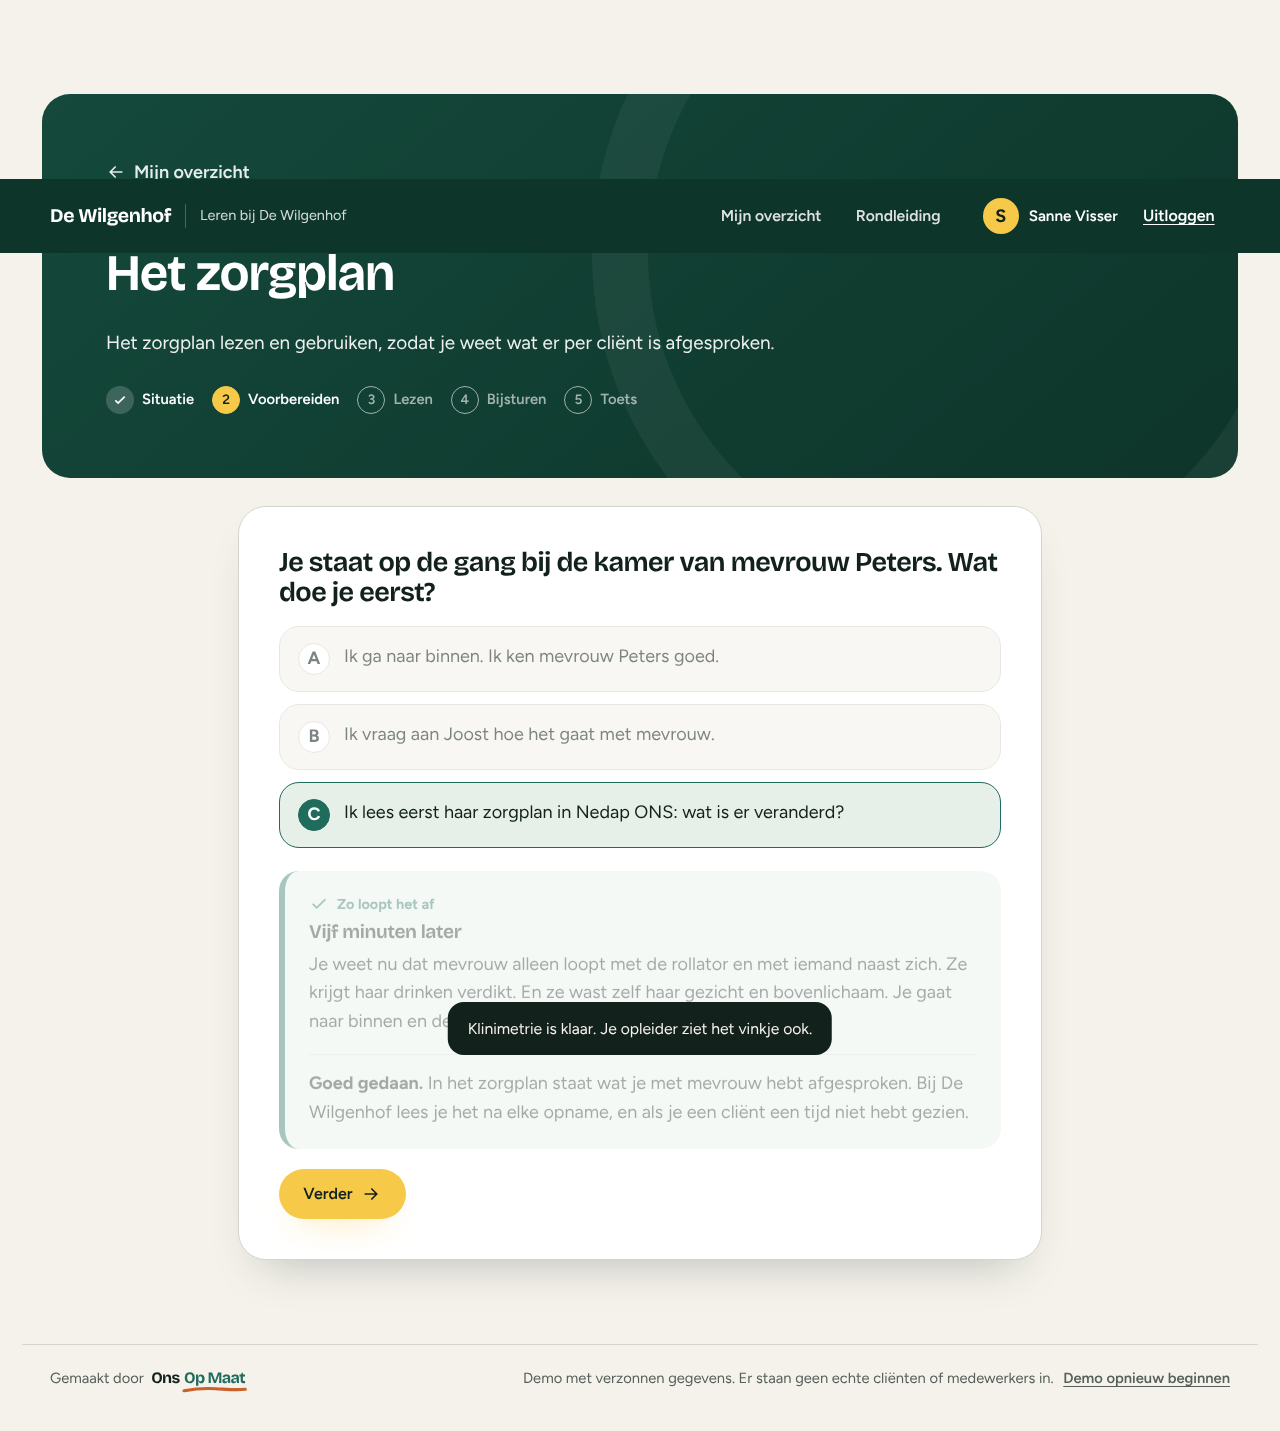
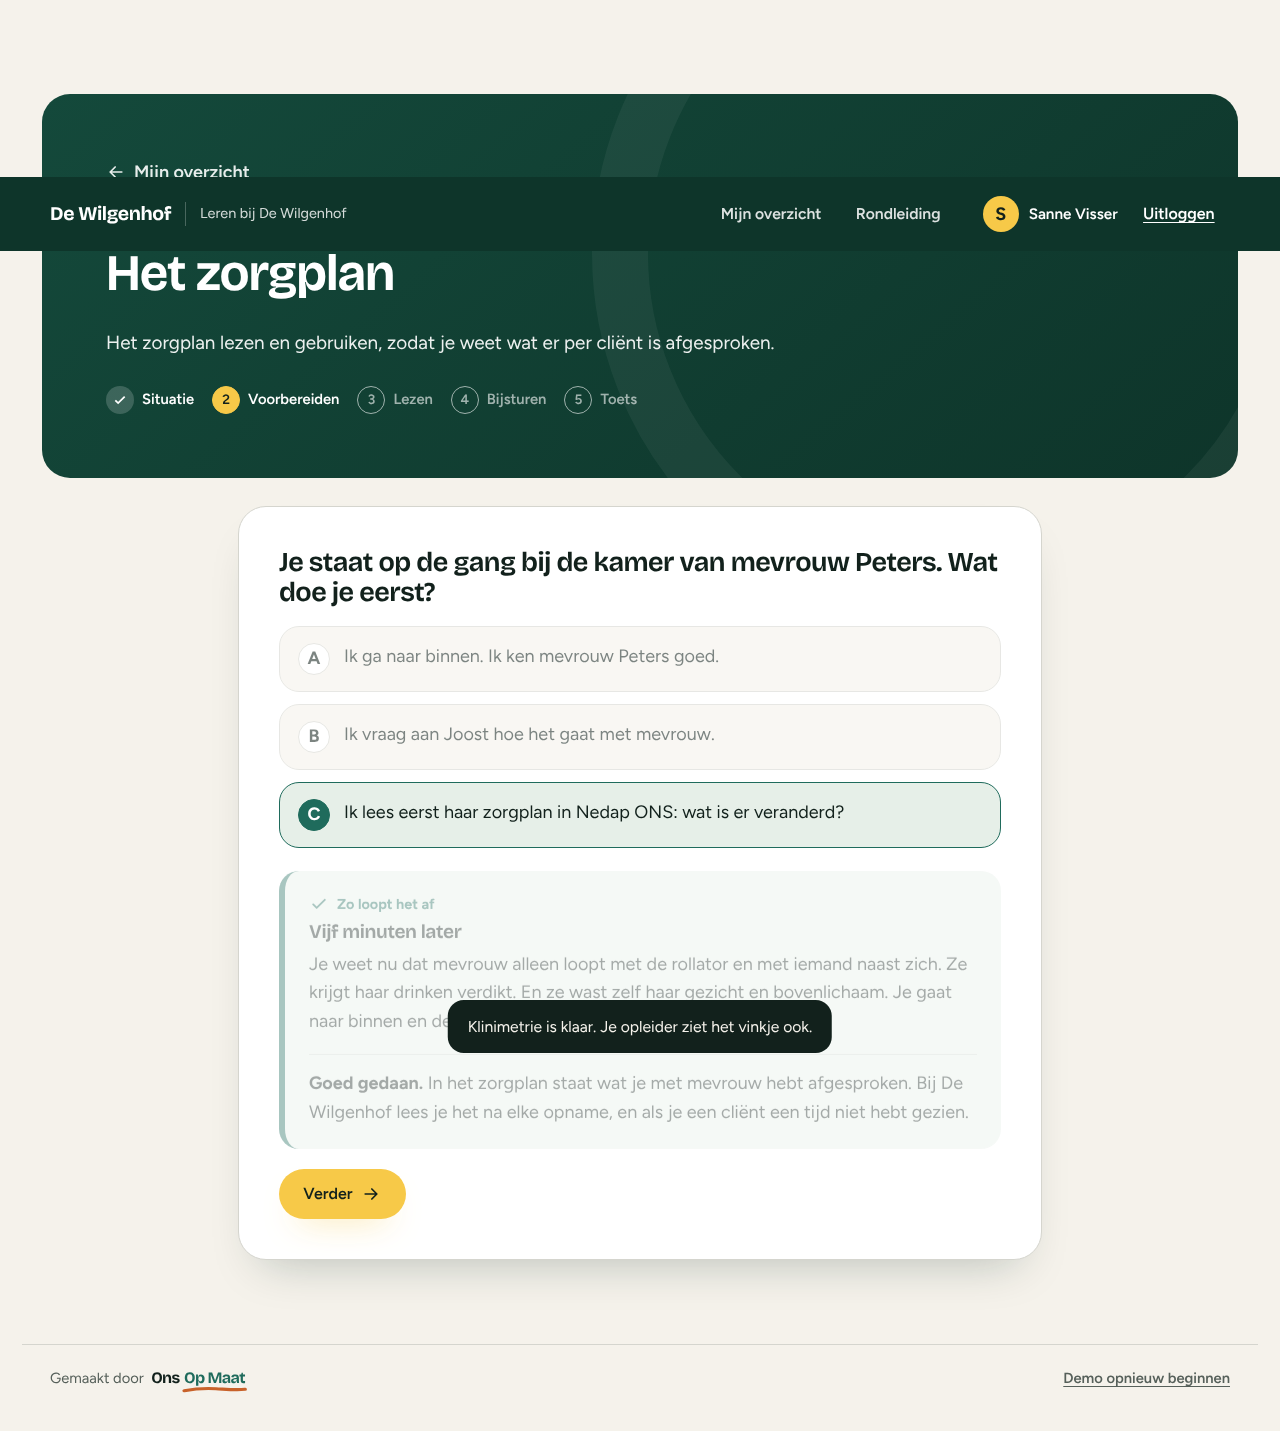
Disclaimers uit beeld gehaald
Geen regels meer over verzonnen gegevens, fictieve cliënten of een
nagebouwd scherm, op verzoek van Nick. Gemaakt door Ons Op Maat blijft.

Claude-Session: https://claude.ai/code/session_01NHBNdB6ZupUW6usMoxdCbz

diff --git a/js/app.js b/js/app.js
@@ -136,8 +136,7 @@ function voet() {
     <footer class="voet">
       <div class="voet__in">
         <p class="voet__gemaakt">Gemaakt door ${OOM_MERK}</p>
-        <p class="voet__demo">Demo met verzonnen gegevens. Er staan geen echte cliënten of medewerkers in.
-          <button type="button" class="linkknop" data-actie="opnieuw">Demo opnieuw beginnen</button></p>
+        <p class="voet__demo"><button type="button" class="linkknop" data-actie="opnieuw">Demo opnieuw beginnen</button></p>
       </div>
     </footer>`;
 }
@@ -393,7 +392,6 @@ function viewCasus(m) {
         <p class="situatie__tijd">${esc(c.intro.tijd)}</p>
         <h2>${esc(c.intro.kop)}</h2>
         ${c.intro.tekst.map((t) => `<p>${esc(t)}</p>`).join('')}
-        ${c.intro.noot ? `<p class="opmerking">${esc(c.intro.noot)}</p>` : ''}
         <button type="button" class="btn btn--actie" data-actie="casus-start">${esc(c.startKnop || 'Begin')} ${ICOON.pijl}</button>
       </article>`;
   } else if (['toets', 'uitslag', 'afronden'].includes(casus.stap)) {
@@ -451,8 +449,8 @@ function viewKoppel(stap) {
     <article class="werkpaneel">
       <h2>${esc(stap.vraag)}</h2>
       ${stap.uitleg ? `<p>${esc(stap.uitleg)}</p>` : ''}
-      <div class="ecd" aria-label="Nagebouwd scherm in eigen vormgeving">
-        <div class="ecd__balk"><span>${esc(stap.scherm || 'Nedap ONS')}</span><span class="ecd__klein">nagebouwd scherm, fictieve cliënt</span></div>
+      <div class="ecd">
+        <div class="ecd__balk"><span>${esc(stap.scherm || 'Nedap ONS')}</span></div>
         <div class="ecd__body">
           ${stap.regels.map((r, i) => `
             <div class="ecd__rij">
@@ -620,7 +618,7 @@ function viewOpleider() {
       <div class="paneel__in">
         <p class="bovenregel">Dashboard opleider</p>
         <h1>Inwerken bij ${esc(orgNaam())}</h1>
-        <p class="lead">Zo ver zijn je nieuwe collega's met hun modules. Alle namen en cijfers zijn verzonnen, behalve die van Sanne: die volgt wat je in de demo doet.</p>
+        <p class="lead">Zo ver zijn je nieuwe collega's met hun modules.</p>
         <div class="tegels">
           ${tegel(alle.length, 'nieuwe medewerkers')}
           ${tegel(alle.filter((r) => r.status === 'klaar').length, 'klaar met inwerken')}
@@ -643,7 +641,7 @@ function viewOpleider() {
             <tbody>
               ${rijen.map((r) => `
                 <tr${r.live ? ' class="is-live"' : ''}>
-                  <th scope="row">${esc(r.naam)}${r.live ? ' <span class="live">jij in de demo</span>' : ''}</th>
+                  <th scope="row">${esc(r.naam)}${r.live ? ' <span class="live">jij</span>' : ''}</th>
                   <td>${esc(PROFIELEN[r.profiel].naam)}</td>
                   <td>${esc(r.afdeling)}</td>
                   <td>${new Date(r.start).toLocaleDateString('nl-NL', { day: 'numeric', month: 'short' })}</td>
@@ -720,7 +718,7 @@ function viewBeheerModules() {
                   <td>${m.varianten || '<span class="klein">geen</span>'}</td>
                   <td>${m.toets ? ICOON.vink + '<span class="sr">ja</span>' : '<span class="klein">nee</span>'}</td>
                   <td><span class="laag">Generiek</span> <span class="laag laag--klant">De Wilgenhof</span></td>
-                  <td>${CASUSSEN[m.id] ? '<span class="status status--klaar">Uitgewerkt in demo</span>' : '<span class="status">Opzet</span>'}</td>
+                  <td>${CASUSSEN[m.id] ? '<span class="status status--klaar">Uitgewerkt</span>' : '<span class="status">Opzet</span>'}</td>
                 </tr>`).join('')}
             </tbody>
           </table>
@@ -750,7 +748,7 @@ function viewBeheerKlanten() {
           <dl class="feiten">
             <div><dt>ECD</dt><dd>${ORGANISATIE.ecd}</dd></div>
             <div><dt>Profielen</dt><dd>${Object.values(PROFIELEN).map((p) => esc(p.naam)).join(', ')}</dd></div>
-            <div><dt>Medewerkers in de demo</dt><dd>${aantal}</dd></div>
+            <div><dt>Medewerkers</dt><dd>${aantal}</dd></div>
             <div><dt>Inloggen</dt><dd>eigen inlog of SSO via het portaal van de klant</dd></div>
           </dl>
           <div class="stalen" aria-label="Huisstijlkleuren">${['paneel', 'merk', 'actie', 'zacht'].map((k) => `<span style="background:${kleuren[k]}" title="${LABELS[k].naam} ${kleuren[k]}"></span>`).join('')}</div>

diff --git a/index.html b/index.html
@@ -5,13 +5,13 @@
   <meta name="viewport" content="width=device-width, initial-scale=1">
   <meta name="robots" content="noindex, nofollow">
   <meta name="theme-color" content="#14493B">
-  <meta name="description" content="Demo van de leeromgeving van Ons Op Maat, met verzonnen gegevens.">
+  <meta name="description" content="Leren bij De Wilgenhof, de leeromgeving van Ons Op Maat.">
   <title>Leren bij De Wilgenhof</title>
   <link rel="icon" href="/assets/favicon.svg" type="image/svg+xml">
   <link rel="preload" href="/assets/figtree-latin.woff2" as="font" type="font/woff2" crossorigin>
   <link rel="preload" href="/assets/bricolage-latin.woff2" as="font" type="font/woff2" crossorigin>
-  <link rel="stylesheet" href="/styles.css?v=2">
-  <script type="module" src="/js/app.js?v=2"></script>
+  <link rel="stylesheet" href="/styles.css?v=3">
+  <script type="module" src="/js/app.js?v=3"></script>
 </head>
 <body>
   <a class="naar-inhoud" href="#inhoud">Naar de inhoud</a>

diff --git a/js/casussen/overdracht.js b/js/casussen/overdracht.js
@@ -13,7 +13,6 @@ export default {
       'Bij De Wilgenhof lees je eerst de overdrachtsagenda en de overdrachtsrapportages in Nedap ONS. Pas daarna ga je de eerste kamer in.',
       'In de overdracht van vannacht staat onder andere: "Meneer Jansen om 3.40 uur naast zijn bed gevonden. Geen letsel gezien. MIC gemeld. Graag goed observeren."',
     ],
-    noot: 'Meneer Jansen, mevrouw Smit en meneer Van Leeuwen zijn verzonnen. In deze leeromgeving staan nooit echte cliënten.',
   },
   stappen: [
     {

diff --git a/js/casussen/zp10.js b/js/casussen/zp10.js
@@ -12,7 +12,6 @@ export default {
       'Meneer Koster is 91. Gisteren hebben de arts en het team besloten dat hij in de stervensfase is. Sinds die dag loopt bij hem het zorgpad stervensfase in Nedap ONS.',
       'Zijn dochter zit bij hem. Als je binnenkomt, hoor je dat zijn ademhaling rochelt. Hij fronst en trekt aan het laken. Zijn lippen zijn droog.',
     ],
-    noot: 'Meneer Koster is verzonnen. In deze leeromgeving staan nooit echte cliënten.',
   },
   stappen: [
     {

diff --git a/js/casussen/mikzo.js b/js/casussen/mikzo.js
@@ -13,7 +13,6 @@ export default {
       'Vandaag vertelt hij veel. Hij mist zijn tuin. Hij wil zijn eigen leunstoel op zijn kamer. En hij wil zelf weten wanneer hij naar bed gaat.',
       'In de overdracht staat dat hij vannacht twee keer op de gang stond, zonder licht en zonder pantoffels. Zijn bloedsuiker was vanochtend hoger dan normaal voor hem.',
     ],
-    noot: 'Meneer Hendriks is verzonnen. In deze leeromgeving staan nooit echte cliënten.',
   },
   stappen: [
     {

diff --git a/js/casussen/wondzorg.js b/js/casussen/wondzorg.js
@@ -12,7 +12,6 @@ export default {
       'Mevrouw Van Dam stootte vorige week haar onderbeen tegen de rolstoel. Er zit een wond. In het wondzorgplan staat dat je bij elke verbandwissel op woensdag een foto maakt.',
       'Bij De Wilgenhof maak je wondfoto\'s alleen in de wondzorgapp. Zo komt de foto in het dossier en niet op je telefoon.',
     ],
-    noot: 'Mevrouw Van Dam is verzonnen. In deze leeromgeving staan nooit echte cliënten.',
   },
   stappen: [
     {

diff --git a/js/casussen/familie.js b/js/casussen/familie.js
@@ -13,7 +13,6 @@ export default {
       'Vlak voor het einde van je dienst houdt de dochter je aan op de gang. "Mijn moeder gaat graag naar de kerk. Vanaf nu haal ik haar elke zondag om 9.30 uur op. Kan ze dan aangekleed klaarzitten?"',
       'Ze heeft nog meer: "En als ze valt, wil ik meteen gebeld worden. Ook als het \'s nachts is."',
     ],
-    noot: 'Mevrouw Dijkstra is verzonnen. In deze leeromgeving staan nooit echte cliënten.',
   },
   stappen: [
     {

diff --git a/js/casussen/rapporteren.js b/js/casussen/rapporteren.js
@@ -13,7 +13,6 @@ export default {
       'Bij de ochtendzorg is ze onrustig en wil ze eerst niet ontbijten. Je praat even met haar over haar kleindochter, en daarna eet ze toch een halve boterham.',
       'Bij het wassen zie je een rode plek op haar rechterhiel. De huid is niet open. De plek is ongeveer zo groot als een euro.',
     ],
-    noot: 'Mevrouw Bakker is verzonnen. In deze leeromgeving staan nooit echte cliënten.',
   },
   stappen: [
     {

diff --git a/js/casussen/opzoeken.js b/js/casussen/opzoeken.js
@@ -13,7 +13,6 @@ export default {
       'Lieke Hoekstra werkt op De Eik. Ze vraagt: "Wil jij meneer Jansen op kamer 4 helpen met eten? Hij heeft vanmiddag weinig gedronken. Wil je bijhouden hoeveel hij drinkt?"',
       'Je kent zelf ook een meneer Jansen. Die woont op De Linde, jouw eigen afdeling.',
     ],
-    noot: 'De cliënten in deze casus zijn verzonnen. In deze leeromgeving staan nooit echte cliënten.',
   },
   stappen: [
     {

diff --git a/js/casussen/episodes.js b/js/casussen/episodes.js
@@ -13,7 +13,6 @@ export default {
       'Gisteren heeft de huisarts gezegd dat het een blaasontsteking is. Mevrouw Kok krijgt een antibioticakuur van vijf dagen. De huisarts wil dat ze extra drinkt.',
       'Bij de overdracht zegt Fatima: "Kun jij dit vastleggen? Dan weet iedereen deze week wat er moet gebeuren."',
     ],
-    noot: 'Mevrouw Kok is verzonnen. In deze leeromgeving staan nooit echte cliënten.',
   },
   stappen: [
     {

diff --git a/js/casussen/authenticator.js b/js/casussen/authenticator.js
@@ -12,7 +12,6 @@ export default {
       'Dit weekend heb je een nieuwe telefoon gekocht. Je oude telefoon heb je ingeleverd.',
       'Je wilt inloggen op Nedap ONS om de overdracht te lezen. Je vult je wachtwoord in en Nedap ONS vraagt om de code uit de authenticator-app. Op je nieuwe telefoon staat die app nog niet goed.',
     ],
-    noot: 'De werkafspraken in deze casus zijn verzonnen voor De Wilgenhof.',
   },
   stappen: [
     {

diff --git a/js/casussen/mic.js b/js/casussen/mic.js
@@ -12,7 +12,6 @@ export default {
       'Je pakt de medicatie voor de middag. In de medicijnkar ligt nog het zakje van 8.00 uur van mevrouw Willems. Het is dicht en niet afgetekend.',
       'Mevrouw Willems zit in de huiskamer en voelt zich goed. Je weet niet wie vanochtend de medicatie heeft gedaan.',
     ],
-    noot: 'Mevrouw Willems is verzonnen. In deze leeromgeving staan nooit echte cliënten.',
   },
   stappen: [
     {
